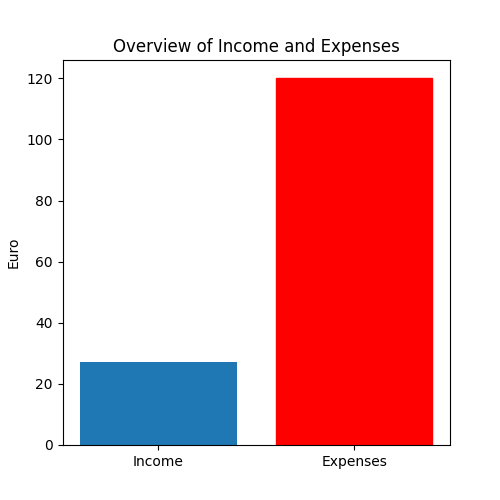
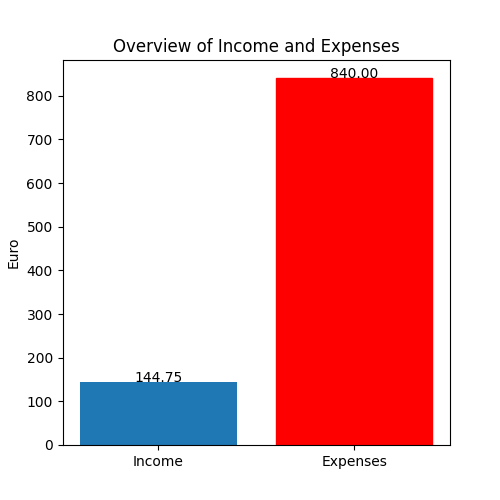
3 visualisation are working with the database

diff --git a/frontend/visualization/visualization.py b/frontend/visualization/visualization.py
@@ -1,61 +1,8 @@
 import matplotlib.pyplot as mpl
 import numpy as np
-import pymongo
-from pymongo import MongoClient
-
-
-URI = "mongodb+srv://db_user:db_user@dss.icklgr1.mongodb.net/"
-client = MongoClient(URI)
-print("Connection Successful")
-db = client.database_dss
-#two different collections, one for input and one for output
-collection_input = db.input
-collection_output = db.output
-
-last_input = collection_input.find_one({},sort=[('_id', pymongo.DESCENDING)])
-last_output = collection_output.find_one({},sort=[('_id', pymongo.DESCENDING)])
-
-print(last_input)
-
-#---------------------------------------------------
-
-cars = last_output["outputs"]["total_number_cars"]
-trucks = last_output["outputs"]["total_number_trucks"]
-ticket_price = last_input["parameters"]["ticket_cost"]
-gate_cost = last_input["parameters"]["gate_cost"]
-employee_cost = last_input["parameters"]["employee_cost"]
-gates = 4
-gates_open = 2  # hours
-
-
-# how much is for the parking?
-# 5% for the pre-gate-parking
-percentage_for_parking = 0.05
-ticket_parking = ticket_price * percentage_for_parking
-
-income = (cars * ticket_parking) + (trucks * (ticket_parking * 1.5))
-
-# Expenses = price for each employee per gate (excl. sel-check-in) and hours + gates cost per hour
-expenses = (gates * (gates_open * employee_cost)) + (gates * (gates_open * gate_cost))
-
-# chart
-fig = mpl.figure(figsize=(5, 5))
-ax = fig.add_subplot()
-x_labels = ["Income", "Expenses"]
-y_axis = [income, expenses]
-data_x = np.arange(len(x_labels))
-barlist = ax.bar(data_x, y_axis)
-barlist[1].set_color('red')
-ax.set_ylabel('Euro')
-ax.set_title('Overview of Income and Expenses')
-ax.set_xticks(data_x, x_labels)
-
-mpl.show()
-
-
-
-
-
+def addlabels(x, y):
+    for i in range(len(x)):
+        mpl.text(i, y[i], "{:.2f}".format(y[i]), ha='center')
 
 def create_handled_vehicles_chart(save_path):
     # chart 1 ---------------------------------------------------------------------------------------
@@ -83,29 +30,9 @@ def create_handled_vehicles_chart(save_path):
     # mpl.show()
 
 
-def create_income_expenses_chart(save_path):
+def create_income_expenses_chart(save_path, income, expenses):
     # chart 2 ---------------------------------------------------------------------------------------
     # Overview of Income and Expenses
-    # Income = sold ticked
-    cars = 35
-    trucks = 25
-    ticket_price = 7.5
-    # how much is for the parking?
-    # 5% for the pre-gate-parking
-    percentage_for_parking = 0.05
-    ticket_parking = ticket_price * percentage_for_parking
-
-    income = (cars * ticket_parking) + (trucks * (ticket_parking * 1.5))
-
-    # Expenses = price for each employee per gate (excl. sel-check-in) and hours
-
-    gates = 4
-    gates_open = 2  # hours
-    # payment between 10 to 20 wuro
-    payment = 15  # hours
-
-    expenses = (gates * (gates_open * payment))
-
     # chart
     fig = mpl.figure(figsize=(5, 5))
     ax = fig.add_subplot()
@@ -114,6 +41,7 @@ def create_income_expenses_chart(save_path):
     data_x = np.arange(len(x_labels))
     barlist = ax.bar(data_x, y_axis)
     barlist[1].set_color('red')
+    addlabels(x_labels,y_axis)
     ax.set_ylabel('Euro')
     ax.set_title('Overview of Income and Expenses')
     ax.set_xticks(data_x, x_labels)
@@ -121,20 +49,20 @@ def create_income_expenses_chart(save_path):
     fig.savefig(save_path)
 
 
-def create_avg_waiting_chart(save_path):
+def create_avg_waiting_chart(save_path, avg_car, avg_truck):
     # chart 3 ---------------------------------------------------------------------------------------
     # Average waiting time
-    #avg_cars_waiting = last_output["_id"]["avg_waiting_time_car"]
-    #print(avg_cars_waiting)
+    # avg_cars_waiting = last_output["_id"]["avg_waiting_time_car"]
+    # print(avg_cars_waiting)
 
-    avg_car = last_output["outputs"]["avg_waiting_time_car"]
-    avg_truck = last_output["outputs"]["avg_waiting_time_truck"]
     fig = mpl.figure(figsize=(5, 5))
     ax = fig.add_subplot()
     x_labels = ["Car", "Truck"]
     y_axis = [avg_car, avg_truck]
     data_x = np.arange(len(x_labels))
-    ax.bar(data_x, y_axis)
+    barlist = ax.bar(data_x, y_axis)
+    barlist[1].set_color('orange')
+    addlabels(x_labels,y_axis)
     ax.set_ylabel('Minutes')
     ax.set_title('Average Waiting Time in Minutes')
     ax.set_xticks(data_x, x_labels)
@@ -142,38 +70,28 @@ def create_avg_waiting_chart(save_path):
     fig.savefig(save_path)
 
 
-def create_co2_emission_chart(save_path):
+
+
+
+def create_co2_emission_chart(save_path, emission_car_all, emission_truck_all):
     # chart 4 ---------------------------------------------------------------------------------------
     # CO² Emission of Vehicles
     # Car: 19,1 g CO² per min
     # Truck: 45,56 g CO² per min
-    emission_car = 19.1
-    emission_truck = 45.56
 
     fig = mpl.figure(figsize=(5, 5))
     ax = fig.add_subplot()
-    gates = [1, 2, 3, 4]
+    x_labels = ["Cars", "Trucks"]
 
-    waiting_time_cars = [50, 30, 58, 48]
-    waiting_time_trucks = [60, 12, 0, 70]
-
-    # to add emission
-    for i in range(len(waiting_time_cars)):
-        waiting_time_cars[i] = waiting_time_cars[i] * emission_car
-
-    for i in range(len(waiting_time_trucks)):
-        waiting_time_trucks[i] = waiting_time_trucks[i] * emission_truck
-
-    print(waiting_time_cars)
-    data_x = np.arange(len(gates))
-    width = 0.25
-    ax.bar(data_x - width / 2, waiting_time_cars, width, label='Cars')
-    ax.bar(data_x + width / 2, waiting_time_trucks, width, label='Trucks')
+    y_axis = [(emission_car_all), (emission_truck_all)]
+    data_x = np.arange(len(x_labels))
+    barlist = ax.bar(data_x, y_axis)
+    barlist[1].set_color('orange')
+    addlabels(x_labels, y_axis)
     ax.set_ylabel('co¹ emission in gramm per min')
-    ax.set_xlabel('Gates')
     ax.set_title('Produced CO² Emission during Waiting Time')
-    ax.set_xticks(data_x, gates)
-    ax.grid()
-    ax.legend()
-    # mpl.show()
+    ax.set_xticks(data_x, x_labels)
+    # ax.set_yticks(y_axis,"k")
+    ylabels = ['{:,.0f}'.format(x) + 'K' for x in ax.get_yticks() / 1000]
+    ax.set_yticklabels(ylabels)
     fig.savefig(save_path)

diff --git a/frontend/ui_revised/main_revised.py b/frontend/ui_revised/main_revised.py
@@ -10,6 +10,7 @@ from frontend.visualization.visualization import *
 from frontend.validation.GUIgraphCheck import *
 import utils
 import datetime
+from datetime import datetime
 
 
 class MainWindow(QMainWindow):
@@ -152,7 +153,62 @@ p, li { white-space: pre-wrap; }
 
         last_entry = collection_input.find_one({}, sort=[('_id', pymongo.DESCENDING)])
         entry_id = last_entry["_id"]
+        last_result = collection_output.find_one({},sort=[('_id', pymongo.DESCENDING)])
+
         if collection_output.find_one({"input_id": entry_id}) is not None:
+
+
+            #from output
+            avg_car = (last_result["outputs"]["avg_waiting_time_car"])/60 #in minutes
+            avg_truck = (last_result["outputs"]["avg_waiting_time_truck"])/60 #in minutes
+            cars = last_result["outputs"]["total_number_cars"]
+            trucks = last_result["outputs"]["total_number_trucks"]
+            list_of_waiting_times_cars = last_result["outputs"]["list_of_waiting_times_cars"]
+            list_of_waiting_times_trucks = last_result["outputs"]["list_of_waiting_times_trucks"]
+            #from input
+            out_gate_open_val = last_entry["parameters"]["gate_open_time"]
+            out_gate_close_val = last_entry["parameters"]["gate_closing_time"]
+            out_num_cars_val = last_entry["parameters"]["no_of_cars"]
+            out_num_trucks_val = last_entry["parameters"]["no_of_trucks"]
+            out_num_trailers_val = last_entry["parameters"]["no_of_trailers"]
+            out_empl_cost_val = last_entry["parameters"]["employee_cost"]
+            out_gate_cost_val = last_entry["parameters"]["gate_cost"]
+            out_ticket_cost_val = last_entry["parameters"]["ticket_cost"]
+            out_area_width_val = last_entry["parameters"]["total_area_width"]
+            out_area_length_val = last_entry["parameters"]["total_area_length"]
+            out_perc_online_val = last_entry["parameters"]["perc_online_check_in"]
+
+
+            #Vizualization 2
+            gates = 4
+
+            open_time = datetime.strptime(out_gate_open_val, "%H:%M")
+            close_time = datetime.strptime(out_gate_close_val, "%H:%M")
+
+            gates_open = (close_time - open_time).seconds/3600 #to get from seconds to hours
+
+            # # how much is for the parking?
+            # # 5% for the pre-gate-parking
+            percentage_for_parking = 0.05
+            ticket_parking = out_ticket_cost_val * percentage_for_parking
+
+            income = (cars * ticket_parking) + (trucks * (ticket_parking * 1.5))
+
+            # # Expenses = price for each employee per gate (excl. sel-check-in) and hours + gates cost per hour
+            expenses = (gates * (gates_open * out_empl_cost_val)) + (gates * (gates_open * out_gate_cost_val))
+
+
+            #Vizualization 4
+            # CO² Emission of Vehicles
+            # Car: 19,1 g CO² per min
+            # Truck: 45,56 g CO² per min
+            emission_car = 19.1
+            emission_truck = 45.56
+
+            emission_car_all = (np.sum(list_of_waiting_times_cars))*emission_car
+            emission_truck_all = (np.sum(list_of_waiting_times_trucks)) * emission_truck
+
+
             print(entry_id)
             # Set status to OK
             self.ui.textBrowser_out_result_status.setHtml(self.status_output_OK)
@@ -183,17 +239,17 @@ p, li { white-space: pre-wrap; }
             out_lab_5.setText("A")
             out_lab_6.setText("A")
 
-            out_gate_open.setText("A")
-            out_gate_close.setText("A")
-            out_num_cars.setText("A")
-            out_num_trucks.setText("A")
-            out_num_trailers.setText("A")
-            out_empl_cost.setText("A")
-            out_gate_cost.setText("A")
-            out_ticket_cost.setText("A")
-            out_area_width.setText("A")
-            out_area_length.setText("A")
-            out_perc_online.setText("A")
+            out_gate_open.setText(str(out_gate_open_val))
+            out_gate_close.setText(str(out_gate_close_val))
+            out_num_cars.setText(str(out_num_cars_val))
+            out_num_trucks.setText(str(out_num_trucks_val))
+            out_num_trailers.setText(str(out_num_trailers_val))
+            out_empl_cost.setText(str(out_empl_cost_val))
+            out_gate_cost.setText(str(out_gate_cost_val))
+            out_ticket_cost.setText(str(out_ticket_cost_val))
+            out_area_width.setText(str(out_area_width_val))
+            out_area_length.setText(str(out_area_length_val))
+            out_perc_online.setText(str(out_perc_online_val))
 
             # display latest simulated layout
             layout_img = QPixmap('./img/current_gridlayout.jpg')
@@ -210,9 +266,9 @@ p, li { white-space: pre-wrap; }
 
             # generate charts for the simulation
             create_handled_vehicles_chart('./img/chart_0_0.png')
-            create_income_expenses_chart('./img/chart_0_1.png')
-            create_avg_waiting_chart('./img/chart_1_0.png')
-            create_co2_emission_chart('./img/chart_1_1.png')
+            create_income_expenses_chart('./img/chart_0_1.png', income, expenses)
+            create_avg_waiting_chart('./img/chart_1_0.png', avg_car, avg_truck)
+            create_co2_emission_chart('./img/chart_1_1.png', emission_car_all, emission_truck_all)
 
             # assigning charts to the placeholders
 
